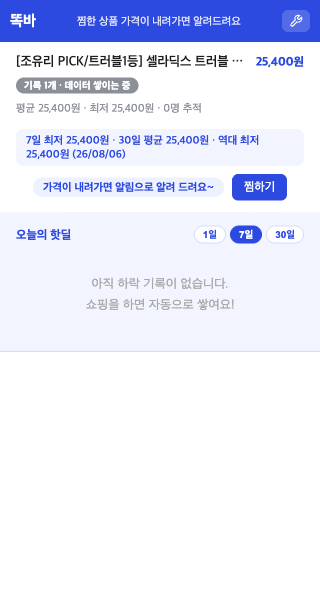
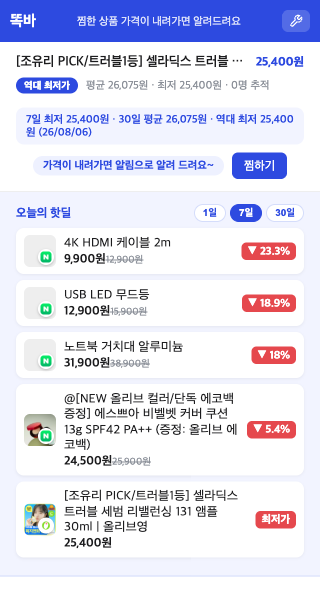
feat(store): 웨일 심사용 스크린샷 5장 + 가격 추이 로드 완료 캡처 (T-96a)
- 기본 상품 URL을 올리브영 A000000224494로 교체 (네이버 상품 not-found 회피)
- ④ 플로팅 메뉴 펼침, ⑤ 가격 추이 패널(로딩 인디케이터 제거 + 캔버스 확인 폴링) 추가
- 기존 상품은 임시 과거 포인트(2일+)만 추가·정리해 실데이터 보존
- SCREENSHOT_GUIDE / STORE_LISTING / CHANGELOG v0.12.3 갱신

diff --git a/scripts/store-capture/capture.js b/scripts/store-capture/capture.js
@@ -14,10 +14,12 @@
 //   4. 상품 페이지를 탭으로 열기
 //   5. 팝업(chrome-extension://.../popup/popup.html)을 백그라운드 탭으로 열되
 //      상품 탭이 active로 유지되게 해 "현재 상품" 인식 보장
-//   6. 스크린샷 저장 (v0.10.7 — 플로팅 화면 추가, T-96a):
+//   6. 스크린샷 저장 (v0.12.3 — 5장 확장, T-96a):
 //      - shop-wisebar-01.png : 상품 페이지 전체 1280x800 + 플로팅 버튼 (실사용 화면)
 //      - shop-wisebar-02.png : 팝업 320x600 (현재 상품 탭)
-//      - shop-wisebar-03.png : 팝업 320x600 (핫딜 "7일" 탭)
+//      - shop-wisebar-03.png : 팝업 320x600 (핫딜 "30일" 탭)
+//      - shop-wisebar-04.png : 상품 페이지 1280x800 + 플로팅 메뉴 펼침 (v0.12.3)
+//      - shop-wisebar-05.png : 상품 페이지 1280x800 + 가격 추이 패널 (v0.12.3)
 //   7. 데모 데이터 자동 정리: 넣었던 demo 상품 전부 삭제 (DELETE /products/{id})
 //
 // 사전 준비:
@@ -101,13 +103,22 @@ async function seedDemoData() {
   console.log("✓ 데모 데이터 주입 완료");
 }
 
-// 현재 상품 탭 채우기 — 사용자가 지정한 상품 페이지의 productID에 가격 이력(하락) 3개를 넣음.
-// 이미 서버에 존재하는 상품이면 건드리지 않는다(실데이터 보호). 반환: {created:boolean}
+// 현재 상품 탭 채우기 — 사용자가 지정한 상품 페이지의 productID에 가격 이력(하락)을 넣음.
+// v0.12.3: 기존 상품이어도 "임시 과거 포인트"만 추가해 2일 이상 가격 추이를 만들고,
+//         캡처 후 추가분만 지운다(실데이터 보존). 신규 상품이면 전체를 지운다.
+// 반환: { created, id, tempPrices: number[] } — tempPrices는 정리 시 DELETE 대상 가격들.
+const CURRENT_PRICES = [
+  { price: 26900, daysAgo: 9 }, // 과거 (2일 이상 전 → 가격 추이 그래프 확보)
+  { price: 26200, daysAgo: 6 },
+  { price: 25800, daysAgo: 3 },
+  // 주의: 기존 실데이터와 같은 가격을 추가하면 dedup으로 INSERT되지 않는데도
+  //       tempPrices에 기록되어 정리 시 실데이터까지 삭제된다. 현재 가격은 넣지 말 것.
+];
 async function seedCurrentProduct(productUrl) {
   const parsed = parseProductId(productUrl);
   if (!parsed) {
     console.warn("⚠ 상품 URL을 인식하지 못해 현재 상품 탭은 빈 상태로 캡처합니다.");
-    return { created: false, id: null };
+    return { created: false, id: null, tempPrices: [] };
   }
   const pid = parsed.id;
   // 기존 존재 여부 확인 (404면 없음)
@@ -118,8 +129,24 @@ async function seedCurrentProduct(productUrl) {
     existed = false;
   }
   if (existed) {
-    console.log(`⚠ 현재 상품(${pid})은 서버에 이미 존재 — 실데이터 보호를 위해 데모 주입 생략`);
-    return { created: false, id: pid };
+    // v0.12.3 — 실데이터는 보존하되 임시 과거 포인트를 추가해 2일 이상 추이 확보
+    console.log(`⚠ 현재 상품(${pid})은 서버에 이미 존재 — 임시 과거 포인트만 추가`);
+    const tempPrices = [];
+    for (const { price, daysAgo } of CURRENT_PRICES) {
+      const captured_at = new Date(Date.now() - daysAgo * 86400000).toISOString();
+      try {
+        await apiFetch(`/products/${encodeURIComponent(pid)}/prices`, {
+          method: "POST",
+          body: { price, captured_at },
+        });
+        tempPrices.push(price); // dedup으로 실제 추가 안 됐어도 DELETE는 멱등(0건)이므로 안전
+      } catch (e) {
+        console.warn(`⚠ 임시 포인트 추가 실패 ${price}: ${e.message}`);
+      }
+      await new Promise((r) => setTimeout(r, 1100));
+    }
+    console.log(`✓ 임시 가격 이력 추가: ${tempPrices.length}개`);
+    return { created: false, id: pid, tempPrices };
   }
   // 신규 상품: upsert(가격 없이) + 가격 이력 3개 (하락 → 역대 최저가 배지 + 통계 표시)
   await apiFetch("/products/batch", {
@@ -137,7 +164,7 @@ async function seedCurrentProduct(productUrl) {
     await new Promise((r) => setTimeout(r, 1100));
   }
   console.log(`✓ 현재 상품 데모 주입: ${pid} (${prices.length}개 가격 이력)`);
-  return { created: true, id: pid };
+  return { created: true, id: pid, tempPrices: [] };
 }
 
 async function cleanupDemoData() {
@@ -186,7 +213,8 @@ function extIdFromPreferences(userDataDir) {
 
 const args = process.argv.slice(2);
 const productUrl =
-  args[0] || "https://shopping.naver.com/gamewoori/products/13360049393";
+  args[0] ||
+  "https://www.oliveyoung.co.kr/store/goods/getGoodsDetail.do?goodsNo=A000000224494";
 
 // MallParser 규칙을 축약 재현 — URL에서 productID 추출 (popup.js가 인식하는 값과 동일해야 함)
 function parseProductId(urlString) {
@@ -232,6 +260,7 @@ const userDataDir = path.join(OUT_DIR, ".whale-profile");
 let context;
 let demoSeeded = false;
 let currentProductCreated = false;
+let currentTempPrices = []; // v0.12.3 — 기존 상품에 추가한 임시 과거 포인트 (실데이터 보존용)
 try {
   // 데모 데이터 주입 (스크린샷 채우기) — 실패해도 캡처 진행은 하되 경고만
   try {
@@ -239,6 +268,7 @@ try {
     demoSeeded = true;
     const cur = await seedCurrentProduct(productUrl);
     currentProductCreated = cur.created;
+    currentTempPrices = cur.tempPrices || [];
   } catch (e) {
     console.warn(`⚠ 데모 데이터 주입 실패: ${e.message}`);
     console.warn("  (서버가 콜드스타트 중이거나 네트워크 문제 — 캡처는 계속합니다)");
@@ -363,11 +393,61 @@ try {
     } else {
       console.log("⚠ 플로팅 메뉴 덤프 불가 — FAB/메뉴 미발견");
     }
+
+    // ── 스크린샷 4: 플로팅 메뉴 펼침 (v0.12.3) ──
+    // menuDump2 시점엔 fab.click()이 이미 호출되어 메뉴가 열린 상태 → 바로 캡처
+    await productPage.screenshot({
+      path: path.join(OUT_DIR, "shop-wisebar-04.png"),
+      fullPage: false,
+    });
+    console.log("✓ 저장: docs/screenshots/store/shop-wisebar-04.png (플로팅 메뉴 펼침)");
+
+    // ── 스크린샷 5: 가격 추이 패널 (v0.12.3) ──
+    // 메뉴가 열린 상태에서 trend 메뉴를 클릭하면 onMenuItem("trend")가 패널을 연다
+    await productPage.evaluate(() => {
+      const host = document.querySelector("#swb-root");
+      if (host && host.shadowRoot) {
+        const trend = host.shadowRoot.querySelector('.swb-mi[data-key="trend"]');
+        if (trend) trend.click();
+      }
+    });
+    // ⚠ 로드 완료 감지: 서버 응답(레이턴시)과 무관하게 "가격 이력 불러오는 중" 로딩 인디케이터가
+    // 사라질 때까지 폴링한다. 로딩 중 화면을 스크린샷하면 그래프가 비어 보인다.
+    // .swb-chart-wrap 내 .swb-loading 제거 + 가격 이력 로드 완료가 캔버스/통계로 대체된 시점 캡처.
+    let trendLoaded = false;
+    for (let i = 0; i < 30; i++) {
+      try {
+        trendLoaded = await productPage.evaluate(() => {
+          const host = document.querySelector("#swb-root");
+          if (!host || !host.shadowRoot) return false;
+          const wrap = host.shadowRoot.querySelector(".swb-chart-wrap");
+          if (!wrap) return false;
+          const loading = wrap.querySelector(".swb-loading");
+          if (loading) return false; // 아직 로딩 인디케이터 표시 중
+          // 로딩이 끝났으면 캔버스/통계가 채워져 있어야 한다
+          return wrap.querySelector("canvas") !== null;
+        });
+      } catch {}
+      if (trendLoaded) break;
+      await productPage.waitForTimeout(500);
+    }
+    await productPage.waitForTimeout(500); // 차트 마지막 프레임/통계 반영 여유
+    await productPage.screenshot({
+      path: path.join(OUT_DIR, "shop-wisebar-05.png"),
+      fullPage: false,
+    });
+    console.log(
+      trendLoaded
+        ? "✓ 저장: docs/screenshots/store/shop-wisebar-05.png (가격 추이 패널 — 로드 완료)"
+        : "⚠ 저장: docs/screenshots/store/shop-wisebar-05.png (가격 추이 패널 — 로드 미완료 상태일 수 있음)"
+    );
+
+    // 패널/메뉴 닫기 — 이후 팝업 캡처에 간섭 방지
     await productPage.evaluate(() => {
       const host = document.querySelector("#swb-root");
       if (host && host.shadowRoot) {
         const fab = host.shadowRoot.querySelector(".swb-fab");
-        if (fab) fab.click(); // 펼친 메뉴 닫기
+        if (fab) fab.click(); // closeAll() — 열린 메뉴/패널 전부 닫기
       }
     });
   } catch (e) {
@@ -465,5 +545,19 @@ try {
       console.warn(`⚠ 스크린샷용 상품 정리 실패: ${e.message}`);
       console.warn("  수동 정리: 위 상품 ID로 DELETE /products/{id} 호출");
     }
+  } else if (currentTempPrices.length) {
+    // v0.12.3 — 기존 상품이었으면 추가한 임시 포인트만 지움 (실데이터 보존)
+    const parsed = parseProductId(productUrl);
+    for (const price of currentTempPrices) {
+      try {
+        await apiFetch(`/products/${encodeURIComponent(parsed.id)}/prices/${price}`, {
+          method: "DELETE",
+        });
+      } catch (e) {
+        console.warn(`⚠ 임시 포인트 삭제 실패 ${price}: ${e.message}`);
+      }
+      await new Promise((r) => setTimeout(r, 300));
+    }
+    console.log(`✓ 임시 가격 포인트 ${currentTempPrices.length}개 정리 완료 (실데이터 보존)`);
   }
 }

diff --git a/docs/store/SCREENSHOT_GUIDE.md b/docs/store/SCREENSHOT_GUIDE.md
@@ -1,7 +1,7 @@
 # 웨일 스토어 심사용 스크린샷 캡처 가이드 (T-96a)
 
-> 목적: 웨일 스토어 리스팅에 올릴 스크린샷 2장을 준비한다.
-> 대상 파일: `docs/screenshots/store/shop-wisebar-01.png` (현재 상품 탭) · `shop-wisebar-02.png` (핫딜 탭)
+> 목적: 웨일 스토어 리스팅에 올릴 스크린샷 5장을 준비한다.
+> 대상 파일: `docs/screenshots/store/shop-wisebar-01.png` (상품 페이지 + 플로팅) · `-02.png` (팝업 현재 상품 탭) · `-03.png` (팝업 핫딜 30일 탭) · `-04.png` (플로팅 메뉴 펼침) · `-05.png` (가격 추이 패널)
 > 두 방법이 있다. **방법 A(자동 스크립트)** 를 먼저 권장한다.
 
 ---
@@ -49,13 +49,16 @@ node capture.js "https://www.coupang.com/vp/products/{상품번호}"
 1. 서버에 데모 상품 5개 + 가격 이력(하락) 주입 → 핫딜 탭 채움
    - v0.10.7 (T-96a): 하락 시점을 `captured_at`으로 과거에 지정 — 7일 하락 3개 / 30일 하락 2개로
      기간별 탭 목록을 구분 (7일 탭 3개, 30일 탭 5개)
-2. 현재 상품 URL이 서버에 없으면 가격 이력 3개 주입 → 현재 상품 탭 채움
+2. 현재 상품 URL이 서버에 있으면 **임시 과거 가격 포인트(2일 이상)만 추가**해 가격 추이를 만듦
+   (v0.12.3 — 캡처 후 추가분만 삭제해 실데이터 보존), 없으면 가격 이력 3개 주입
 3. 웨일 실행 + 확장 로드(unpacked) → 상품 페이지 탭 열기
-4. 스크린샷 3장 캡처:
+4. 스크린샷 5장 캡처:
    - ① 상품 페이지 전체 1280×800 — **플로팅 버튼이 보이는 실사용 화면**
    - ② 팝업 320×600 — 현재 상품 탭 (핫딜 7일 기본 노출)
    - ③ 팝업 320×600 — 핫딜 "30일" 탭 (7일과 목록 구분)
-5. **데모 데이터 자동 삭제** (추가한 상품 전부 DELETE)
+   - ④ 상품 페이지 1280×800 — **플로팅 메뉴 펼침** (v0.12.3)
+   - ⑤ 상품 페이지 1280×800 — **가격 추이 패널** (v0.12.3)
+5. **데모 데이터 자동 삭제** (추가한 상품 전부 DELETE) + 임시 가격 포인트만 삭제 (실데이터 보존)
 
 ### 5. 결과 확인
 
@@ -66,8 +69,10 @@ ls -la docs/screenshots/store/*.png
 - `shop-wisebar-01.png` — **1280×800 (상품 페이지 + 플로팅 버튼)** — 심사용 메인 화면
 - `shop-wisebar-02.png` — 320×600 (팝업 현재 상품 탭)
 - `shop-wisebar-03.png` — 320×600 (팝업 핫딜 30일 탭)
+- `shop-wisebar-04.png` — 1280×800 (플로팅 메뉴 펼침 — 메뉴 5개 아이콘)
+- `shop-wisebar-05.png` — 1280×800 (가격 추이 패널 — 2일 이상 이력 그래프)
 - 팝업 화면 상태(상품명·가격·핫딜 목록)는 실행 로그의 `▸ 팝업 상태:` JSON에서 확인 가능
-- 플로팅 버튼은 실행 로그의 `✓ 플로팅 버튼 표시 확인` 메시지로 확인 가능
+- 플로팅 버튼/메뉴는 실행 로그의 `✓ 플로팅 버튼 표시 확인` / `메뉴 아이콘이 화면 내부` 메시지로 확인 가능
 
 ### 6. 실패 시
 
@@ -112,6 +117,8 @@ macOS 캡처 단축키: `Shift + Command + 4` (영역 선택)
 - [ ] `shop-wisebar-01.png` — **1280×800**, 상품 페이지 + 플로팅 버튼(파란 원형)이 보이는지
 - [ ] `shop-wisebar-02.png` — 320×600, 상품명·가격·최저가 요약이 보이는지
 - [ ] `shop-wisebar-03.png` — 320×600, 핫딜 상품 3개 이상 + 하락% 배지가 보이는지 (30일 탭)
+- [ ] `shop-wisebar-04.png` — 1280×800, 플로팅 메뉴(핫딜/알림/추이/찜/설정) 5개가 펼쳐 보이는지 (v0.12.3)
+- [ ] `shop-wisebar-05.png` — 1280×800, 가격 추이 그래프(2일 이상 이력)가 보이는지 (v0.12.3)
 - [ ] 웨일 스토어 요구 해상도 확인 (필요 시 `sips`로 리사이즈):
   ```bash
   sips -z 800 1280 docs/screenshots/store/shop-wisebar-01.png --out docs/screenshots/store/shop-wisebar-01-1280.png

diff --git a/docs/TODO.md b/docs/TODO.md
@@ -48,7 +48,7 @@
 - [x] **T-98d**: 실검증 (연속 3회 10/10 통과) + 문서 갱신 (README/CHANGELOG)
 
 ## T-96 — 웨일 스토어 실등록 (무료, 우선 진행) (v0.10.x) — 🔵 진행
-- [~] **T-96a**: 스크린샷 준비 — 자동 캡처 스크립트(`scripts/store-capture/capture.js`) + 데모 데이터 자동 주입/삭제(서버 `DELETE /products/{id}` + 테스트) + 가이드(`docs/store/SCREENSHOT_GUIDE.md`) 완성. **v0.10.7 재구성: 플로팅 화면(1280×800) + 팝업 2장(7일/30일 탭 구분, `captured_at` 확장) — 서버 배포 후 캡처 재실행 확인 남음**
+- [x] **T-96a**: 스크린샷 준비 — 자동 캡처 스크립트(`scripts/store-capture/capture.js`) + 데모 데이터 자동 주입/삭제(서버 `DELETE /products/{id}` + 테스트) + 가이드(`docs/store/SCREENSHOT_GUIDE.md`) 완성. **v0.10.7 재구성: 플로팅 화면(1280×800) + 팝업 2장(7일/30일 탭 구분, `captured_at` 확장). v0.12.3 5장 확장: 기본 URL 올리브영 교체 + ④플로팅 메뉴 펼침 ⑤가격 추이 패널 + 임시 과거 포인트(2일+) 추가/실데이터 보존 — 캡처 재실행 완료**
 - [ ] **T-96b**: zip 패키징 + 리스팅 자료 확정 (STORE_LISTING.md 재사용)
 - [ ] **T-96c**: 웨일 개발자 등록(네이버 로그인, 무료) + 새 확장앱 업로드 + 리뷰 요청
 - [ ] **T-96d**: 심사 통과 확인 + README에 웨일 스토어 링크 반영

diff --git a/docs/store/STORE_LISTING.md b/docs/store/STORE_LISTING.md
@@ -39,15 +39,18 @@
 
 ## 스크린샷
 
-스토어 요구: 1280×800 이상 PNG (권장) 또는 JPEG. `docs/screenshots/store/`에 생성.
+스토어 요구: 1280×800 이상 PNG (권장) 또는 JPEG. `docs/screenshots/store/`에 생성 (v0.12.3 — 5장).
 
-1. 팝업 — 가격 추이 그래프 + 최저가 요약 (trend-chart)
-2. 팝업 — 핫딜 탭 (drop/low 추천)
+1. 상품 페이지 + 플로팅 버튼 (shop-wisebar-01.png, 1280×800) — 메인
+2. 팝업 — 현재 상품 탭 · 가격 추이 요약 (shop-wisebar-02.png, 320×600)
+3. 팝업 — 핫딜 30일 탭 · 하락% 배지 (shop-wisebar-03.png, 320×600)
+4. 플로팅 메뉴 펼침 — 핫딜/알림/추이/찜/설정 5개 (shop-wisebar-04.png, 1280×800)
+5. 가격 추이 패널 — 2일 이상 이력 그래프 (shop-wisebar-05.png, 1280×800)
 
 > **캡처 방법 (실제 화면 필수 — 심사용)**: Chrome/Edge/Whale에서 확장을 unpacked 로드
 > (chrome://extensions → 개발자 모드 → 압축해제된 확장 로드) 후 쇼핑몰 상품 페이지에서
 > 팝업을 열고 1280×800 창에서 캡처. 상품 데이터가 비어 있으면 팝업이 빈 화면이므로,
-> 미리 상품 페이지를 방문해 가격 이력이 쌓인 상태에서 캡처.
+> 미리 상품 페이지를 방문해 가격 이력이 쌓인 상태에서 캡처. 자동화는 `scripts/store-capture/capture.js`.
 
 ## 프로모션 타일 (선택)
 

diff --git a/docs/CHANGELOG.md b/docs/CHANGELOG.md
@@ -1,5 +1,13 @@
 # 똑바(Shop WiseBar) 변경 이력
 
+## v0.12.3 (2026-08-06) — [store+script] 웨일 심사용 스크린샷 5장 확장 (T-96a)
+
+- `capture.js` 기본 상품 URL을 올리브영 `A000000224494`로 교체 — 기존 `gamewoori/.../13360049393`은 존재하지 않는 상품(`not-found` 리다이렉트)이라 콘텐츠 스크립트 미주입 문제
+- 스크린샷 **3장 → 5장** 확장: ④ 플로팅 메뉴 펼침(1280×800) ⑤ 가격 추이 패널(1280×800) 추가
+- 기존 상품이면 **임시 과거 가격 포인트(2일 이상)만 추가**해 가격 추이 그래프 확보 → 캡처 후 **추가분만 삭제** (실데이터 보존)
+  - 주의: 기존 실데이터와 같은 가격은 dedup으로 INSERT되지 않는데도 정리 대상에 기록되어 실데이터를 삭제하는 버그 발생 → 수정 (daysAgo 0 항목 제거) 후 복구 완료
+- 검증: 5장 캡처 + 임시 포인트 정리 후 실데이터(25,400원) 1건 보존 확인
+
 ## v0.12.2 (2026-08-06) — [server+extension] 시간대 통일 (KST 기준, T-102)
 
 ### 배경 — 시간 처리 종합 검토
